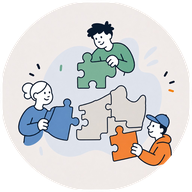
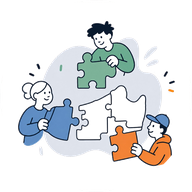
chore: consolideer losse WIP naar develop (LoginPage, iconen, #153-doc)
Losse werktree-wijzigingen samengebracht op develop → DEV:
- LoginPage.jsx UI-aanpassing
- geoptimaliseerde favicon/iconen
- docs/devops/153-table-builder-bron-agnostiek.md (SqlViewProvider / Fase E)

diff --git a/src/components/auth/LoginPage.jsx b/src/components/auth/LoginPage.jsx
@@ -17,6 +17,30 @@ import {
 import { APP_DISPLAY_NAME } from '../../config/app';
 import { APP_VERSION } from '../../config/version';
 
+const LAST_LOGIN_EMAIL_KEY = 'auth:last-login-email';
+
+function getStoredLoginEmail() {
+  if (typeof window === 'undefined') return '';
+  try {
+    return window.localStorage.getItem(LAST_LOGIN_EMAIL_KEY) || '';
+  } catch (_) {
+    return '';
+  }
+}
+
+function storeLoginEmail(email) {
+  if (typeof window === 'undefined') return;
+  try {
+    if (email) {
+      window.localStorage.setItem(LAST_LOGIN_EMAIL_KEY, email);
+      return;
+    }
+    window.localStorage.removeItem(LAST_LOGIN_EMAIL_KEY);
+  } catch (_) {
+    // Ignore storage errors (private mode/quota) and keep login flow working.
+  }
+}
+
 const useStyles = makeStyles({
   container: {
     display: 'flex',
@@ -68,7 +92,7 @@ export default function LoginPage() {
   const styles = useStyles();
   const navigate = useNavigate();
   const { login } = useAuth();
-  const [email, setEmail] = useState('');
+  const [email, setEmail] = useState(() => getStoredLoginEmail());
   const [password, setPassword] = useState('');
   const [error, setError] = useState('');
   const [loading, setLoading] = useState(false);
@@ -80,10 +104,12 @@ export default function LoginPage() {
     e.preventDefault();
     setError('');
     setLoading(true);
+    const loginEmail = email.trim();
     try {
-      const result = await login(email, password);
+      const result = await login(loginEmail, password);
+      storeLoginEmail(loginEmail);
       if (result.requiresPasswordSetup) {
-        navigate('/set-password?email=' + encodeURIComponent(email));
+        navigate('/set-password?email=' + encodeURIComponent(loginEmail));
       } else if (result.requiresMfa) {
         navigate('/mfa');
       } else {
@@ -103,7 +129,7 @@ export default function LoginPage() {
           <img
             src="/logo-circle.png"
             alt={APP_DISPLAY_NAME + ' logo'}
-            style={{ width: '88px', height: '88px', borderRadius: '50%', objectFit: 'cover' }}
+            style={{ width: '112px', height: '112px', borderRadius: '50%', objectFit: 'cover' }}
           />
         </div>
 
@@ -118,9 +144,11 @@ export default function LoginPage() {
           </MessageBar>
         )}
 
-        <form className={styles.form} onSubmit={handleSubmit}>
+        <form className={styles.form} onSubmit={handleSubmit} autoComplete="on">
           <Field label="E-mailadres" required>
             <Input
+              id="login-email"
+              name="email"
               type="email"
               value={email}
               onChange={handleEmailChange}
@@ -130,6 +158,8 @@ export default function LoginPage() {
           </Field>
           <Field label="Wachtwoord" required>
             <Input
+              id="login-password"
+              name="password"
               type="password"
               value={password}
               onChange={handlePasswordChange}

diff --git a/docs/devops/153-table-builder-bron-agnostiek.md b/docs/devops/153-table-builder-bron-agnostiek.md
@@ -1,0 +1,67 @@
+# Table Builder — bron-agnostieke herijking (DevOps)
+
+**Doel:** de generieke tabel-laag losmaken van D365 als enige bron. Een beheerder stelt op de admin-pagina tabellen samen (bron → entiteit → velden cureren → relatie → publiceren) zonder code, voor D365 én niet-D365-bronnen (SQL-views, REST).
+**Referentie in repo:** [docs/plans/dev_2026-06-30-generieke-table-builder-architectuur.md](../plans/dev_2026-06-30-generieke-table-builder-architectuur.md)
+**Bouwt voort op:** [139-kolompicker-filters-generiek.md](139-kolompicker-filters-generiek.md) (Fase 6–8) en [130-d365-po-cache.md](130-d365-po-cache.md).
+**Work items:** Feature #AB:130 → #AB:152 (Fase A), #AB:139 (Fase B), #AB:141 (Fase C), #AB:140 (Fase D), **#AB:153 (Fase E, nieuw)**.
+**Tags:** table-builder; source-provider; metamodel; generiek; bron-agnostiek
+
+---
+
+## Vastgelegde besluiten (2026-06-30)
+
+1. **Bron-agnostische provider-abstractie in scope.** "Generiek" = niet alleen meer D365-entiteiten, maar ook niet-D365-bronnen (SQL-views, REST). D365 OData wordt één `SourceProvider`-connector via een dunne interface (`discoverFields` / `fetch` / `capabilities` / `writeField`).
+2. **Bron-neutrale naamgeving `tb_*`** vervangt het eerder voorgestelde `odata_*`. Er is nog niets generieks gebouwd (alleen `po_*`), dus geen migratiekosten.
+
+### Naam-mapping t.o.v. het samengevoegde plan
+| Samengevoegd plan (`odata_*`) | Dit spoor (`tb_*`) |
+|---|---|
+| `odata_entities` | `tb_tables` (+ `tb_sources`, `tb_relations`) |
+| `odata_columns` | `tb_columns` (`source`/`custom`, `master`/`detail`) |
+| `odata_cache` | `tb_cache` |
+| `odata_custom_values` | `tb_custom_values` |
+| `odata_filter_sets` | `tb_filter_sets` |
+| `odata_field_corrections` | `tb_field_corrections` |
+| `ODataCacheService` | `TableDataService` |
+| `AdminODataColumns` (kolompicker) | `<TableBuilder>` (wizard) |
+| — | `SourceProvider` + `D365ODataProvider` / `SqlViewProvider` / `RestProvider` |
+
+`header/line` → `master/detail`; `d365/custom` → `source/custom`.
+
+---
+
+## Fasering (onder Feature #AB:130)
+
+| Fase | Work item | Inhoud |
+|------|-----------|--------|
+| A | #AB:152 | `tb_*`-metamodel + seed PO-tabel + `TableDataService` (generalisatie cacheservice) |
+| B | #AB:139 | `SourceProvider`-interface + `D365ODataProvider` + `$metadata`-discovery + admin `<TableBuilder>` |
+| C | #AB:141 | Generieke projectie/filters via provider (capability-gedreven) + filtersets + paginering |
+| D | #AB:140 | Tweede D365-entiteit (Vendors) puur via config |
+| **E** | **#AB:153** | **`SqlViewProvider` — tabel op SQL-view zonder D365 (bewijs bron-agnostiek)** |
+| F | #AB:135/#AB:136 | Per-gebruiker zichtbaarheid + tests + OTAP-runbook + versie-bump |
+
+---
+
+## Story #AB:153 — Fase 8b: SqlViewProvider (bewijs bron-agnostiek)
+
+**Beschrijving:** bewijst dat de provider-abstractie niet lekt — dezelfde TableBuilder + generiek datagrid tonen een tabel uit een lokale SQL-view zonder enige D365-/OData-code.
+**Acceptatiecriteria:**
+1. `SqlViewProvider` implementeert `SourceProvider`: `discoverFields` via `INFORMATION_SCHEMA.COLUMNS`, `fetch` via parametrized SELECT op een whitelisted view, `capabilities` met `needsCache=false`.
+2. Tabel toevoegbaar via de TableBuilder met `provider_type=sql_view` — puur configuratie.
+3. Generiek datagrid toont de tabel met dynamische kolommen, filters, app-native kolommen + per-gebruiker zichtbaarheid.
+4. Injectieveilig: whitelisted views, parametrized queries, veld+operator-whitelist.
+5. Geen laag boven de provider kent D365 (bron-agnostiek geverifieerd).
+
+---
+
+## Openstaand (fase-gating, niet-blokkerend voor Fase A)
+
+- Relatie-diepte: v1 = 1 master → 1 detail (zoals PO→lines).
+- Write-back voor SQL-bronnen (UPDATE) of D365-only.
+- UI-navigatie van nieuwe tabellen (dynamische lijst uit `tb_tables` vs admin wijst menu-plek toe).
+- **Blocker:** session-store-hang in de container moet weg vóór preview-validatie van `/api/data/*`.
+
+---
+
+Repo-document: docs/devops/153-table-builder-bron-agnostiek.md
